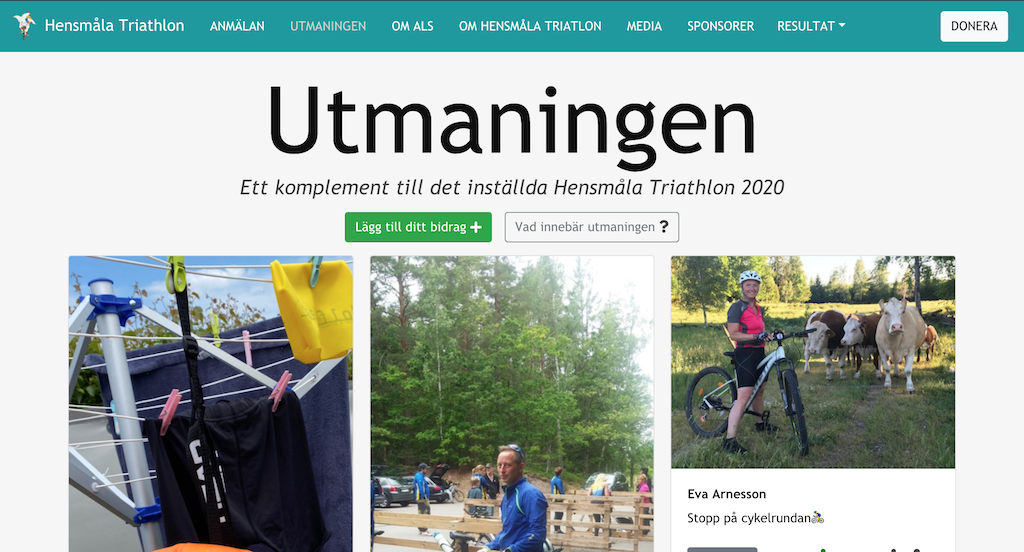
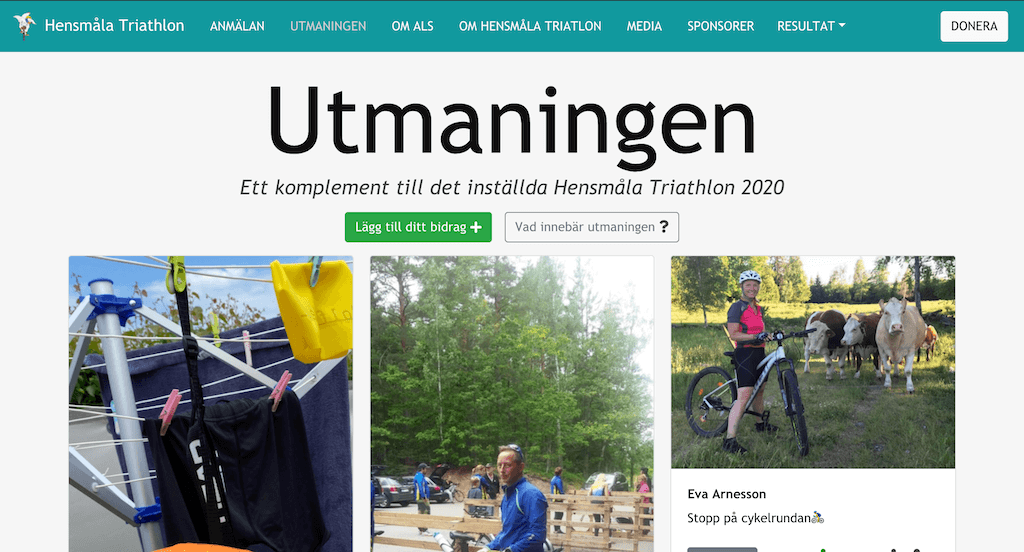
Added news for utmaningen Changed screen responsiveness from md to s for Navigation

Changed region(s): [[0.25, 0.462, 0.3438, 0.6467], [0.1562, 0.9855, 0.1875, 1.0]]

diff --git a/src/components/Navigation.js b/src/components/Navigation.js
@@ -38,7 +38,7 @@ class Navigation extends React.Component {
     const result_years = [2019, 2018, 2017, 2016, 2015, 2014, 2013, 2012];
 
     return (
-      <Navbar expand="md" sticky="top" style={{ backgroundColor: "#11999E" }}>
+      <Navbar expand="s" sticky="top" style={{ backgroundColor: "#11999E" }}>
         <NavbarBrand
           tag={RRNavLink}
           color="light"
